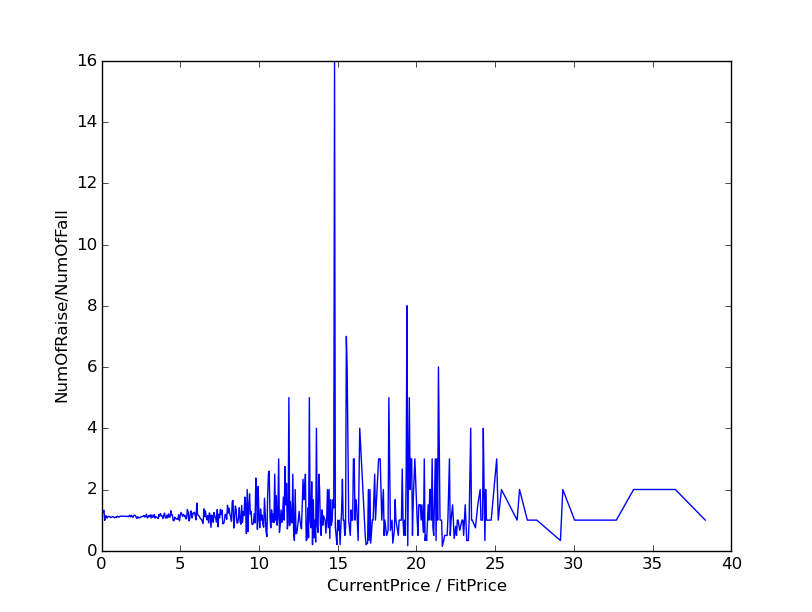
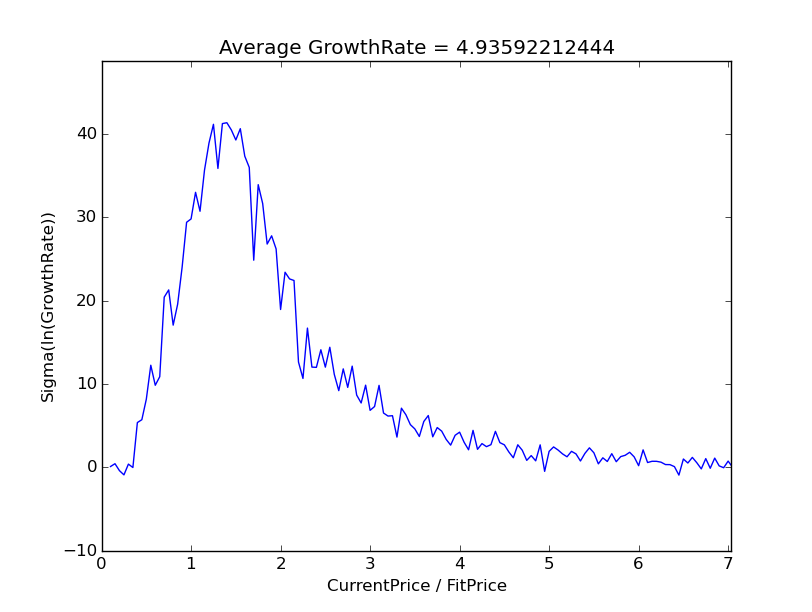
update

diff --git a/StockAnalysis/Growth_Price_MaxProbPrice_Relation.py b/StockAnalysis/Growth_Price_MaxProbPrice_Relation.py
@@ -17,6 +17,8 @@ root = sys.argv[1]
 # value : Num of raises
 result = {}
 
+totalGrowth = []
+
 # It will return the stock's most possible price
 def MostProbPrice(data):
 	priceData = data[:,4]
@@ -35,6 +37,7 @@ def MostProbPrice(data):
 
 # It will fix the results above
 def ProcessData(data):
+	growthOfThisData = 0
 	mostProbPrice = MostProbPrice(data)
 	if mostProbPrice == 0:
 		return
@@ -43,12 +46,15 @@ def ProcessData(data):
 		if not (sp.isnan(data[i][1]) or sp.isnan(data[i][4])):
 			if data[i][1] > 0:
 				currentGrowth = data[i][4] / data[i][1]
+				growthOfThisData += math.log(currentGrowth)
 				pm = data[i][4] / mostProbPrice
 				key = (pm // 0.05) * 0.05
 				if result.has_key(key):
 					result[key] += math.log(currentGrowth)
 				else:
 					result[key] = math.log(currentGrowth)
+	print("GrowthRate:" + str(growthOfThisData))
+	totalGrowth.append(growthOfThisData)
 
 ########################################################################
 
@@ -64,8 +70,9 @@ resultY = []
 for key in sorted(result):
 	resultX.append(key)
 	resultY.append(result[key])
-
+plt.title("Average GrowthRate = " + str(sum(totalGrowth) / len(totalGrowth)))
+plt.grid()
 plt.plot(resultX, resultY)
 plt.xlabel("CurrentPrice / FitPrice")
-plt.ylabel("NumOfRaise/NumOfFall")
+plt.ylabel("Sigma(ln(GrowthRate))")
 plt.show()
